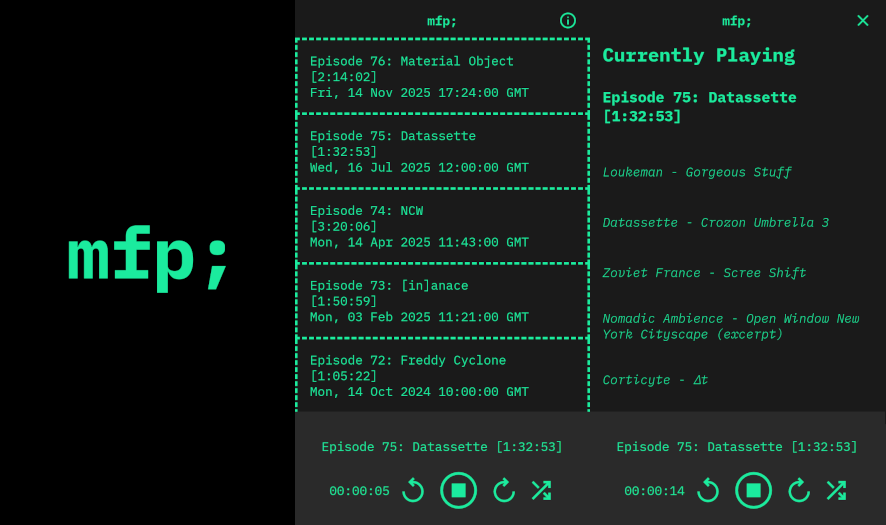
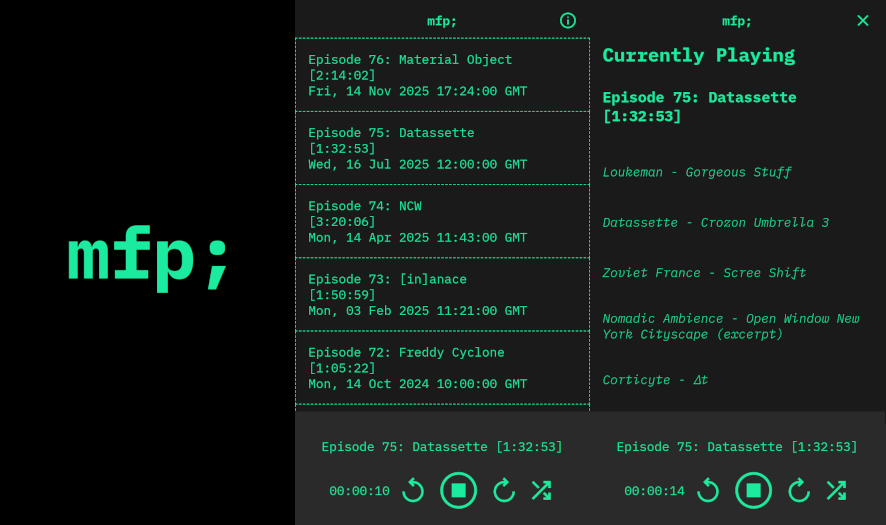
version 1.0.10
Made playlist dashed borders thinner.

Refactor JS functions to use arrow functions.

Changed region(s): [[0.3352, 0.061, 0.6704, 0.7924], [0.64, 0.7619, 0.6704, 0.7924], [0.4266, 0.9143, 0.4571, 0.9448]]

diff --git a/src/main.ts b/src/main.ts
@@ -50,16 +50,16 @@ main.addEventListener('scroll', () => {
 
 let curLink: HTMLAnchorElement | null = null
 
-function hasMediaSession(): boolean {
+const hasMediaSession = (): boolean => {
   return "mediaSession" in navigator
 }
 
-function showMiniPlayButton() {
+const showMiniPlayButton = () => {
   buttonPlay.classList.remove(HIDDEN_CLASS)
   buttonStop.classList.add(HIDDEN_CLASS)
 }
 
-function showMiniStopButton() {
+const showMiniStopButton = () => {
   buttonPlay.classList.add(HIDDEN_CLASS)
   buttonStop.classList.remove(HIDDEN_CLASS)
 }
@@ -92,7 +92,7 @@ mfpAudioPlayer.addEventListener('canplay', async () => {
   await mfpAudioPlayer.play()
 })
 
-function _secondsToTime(seconds: number): string {
+const _secondsToTime = (seconds: number): string => {
 
   if (isNaN(seconds) || seconds < 0) {
     return '00:00:00'
@@ -151,19 +151,19 @@ buttonRandom.addEventListener('click', (e: MouseEvent) => {
   _playRandomEpisode()
 })
 
-function _enableSeekButtons() {
+const _enableSeekButtons = () => {
   console.log('Enabling seek buttons')
   buttonSeekBack.classList.remove(PLAYER_CONTROLS_DISABLED_CLASS)
   buttonSeekForward.classList.remove(PLAYER_CONTROLS_DISABLED_CLASS)
 }
 
-function _disableSeekButtons() {
+const _disableSeekButtons = () => {
   console.log('Disabling seek buttons')
   buttonSeekBack.classList.add(PLAYER_CONTROLS_DISABLED_CLASS)
   buttonSeekForward.classList.add(PLAYER_CONTROLS_DISABLED_CLASS)
 }
 
-function _enableMiniPlayerControls() {
+const _enableMiniPlayerControls = () => {
   buttonSeekBack.classList.remove(PLAYER_CONTROLS_DISABLED_CLASS)
   buttonSeekForward.classList.remove(PLAYER_CONTROLS_DISABLED_CLASS)
   buttonPlay.classList.remove(PLAYER_CONTROLS_DISABLED_CLASS)
@@ -242,13 +242,13 @@ document.addEventListener("visibilitychange", () => {
 })
 
 
-function _seekBackward(offset: number) {
+const _seekBackward = (offset: number) => {
   const currentTime = Math.floor(mfpAudioPlayer.currentTime - offset)
   console.log('Seeking backward:', currentTime, ' offset:', offset)
   mfpAudioPlayer.currentTime = Math.max(0, currentTime)
 }
 
-function _seekForward(offset: number) {
+const _seekForward = (offset: number) => {
   const duration = Math.floor(mfpAudioPlayer.duration - 1)
   const currentTime = Math.floor(mfpAudioPlayer.currentTime + offset)
   console.log('Seeking forward:', currentTime, ' offset:', offset, ' duration:', duration)
@@ -265,7 +265,7 @@ const _playRandomEpisode = () => {
 }
 
 if (hasMediaSession()) {
-  function _updatePositionState() {
+  const _updatePositionState = () => {
     navigator.mediaSession.setPositionState({
       duration: mfpAudioPlayer.duration,
       playbackRate: mfpAudioPlayer.playbackRate,
@@ -311,8 +311,7 @@ if (hasMediaSession()) {
   })
 }
 
-
-function _toggleAbout() {
+const _toggleAbout = () => {
 
   let restoreAboutScrollPos = false
   let restorePlaylistScrollPos = false

diff --git a/src/style.css b/src/style.css
@@ -289,6 +289,7 @@
 
     #playlist a:nth-child(-n + 1) {
       border-top-style: dashed;
+      border-width: 1px;
     }
 
     #playlist a {
@@ -304,6 +305,7 @@
       border-bottom-style: dashed;
       border-left-style: dashed;
       border-right-style: dashed;
+      border-width: 1px;
     }
 
     @media screen and (min-width: 481px) {
@@ -313,6 +315,7 @@
 
       #playlist a:nth-child(-n + 2) {
         border-top-style: dashed;
+        border-width: 1px;
       }
 
       #playlist a:nth-child(1n) {
@@ -331,10 +334,12 @@
 
       #playlist a:nth-child(-n + 3) {
         border-top-style: dashed;
+        border-width: 1px;
       }
 
       #playlist a:nth-child(2n) {
         border-right-style: dashed;
+        border-width: 1px;
       }
 
       #playlist a:nth-child(3n) {

diff --git a/CHANGELOG.md b/CHANGELOG.md
@@ -1,5 +1,12 @@
 # Changelog
 
+## [1.0.10] - 2026-01-07
+
+### Changed
+
+- Made playlist dashed borders thinner
+- Update screenshot
+
 ## [1.0.9] - 2026-01-07
 
 ### Added
